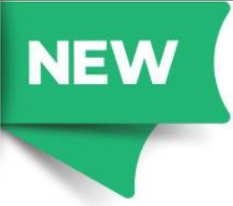
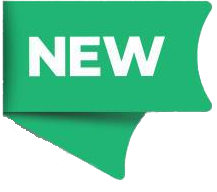
new art de pesca home y products

diff --git a/src/components/carousel/NewsCarousel.js b/src/components/carousel/NewsCarousel.js
@@ -1,20 +1,22 @@
-import React from 'react';
+import React, { useState } from 'react';
+import { motion, isValidMotionProp } from 'framer-motion';
 
 import Carousel from 'react-multi-carousel';
 import 'react-multi-carousel/lib/styles.css';
 import './style.css';
 import {
-  Card,
-  CardBody,
-  CardHeader,
   Box,
-  VStack,
-  Text,
-  Image,
-  Divider,
+  shouldForwardProp,
   Heading,
-  Flex,
+  Image,
+  chakra,
 } from '@chakra-ui/react';
+import { NavLink } from 'react-router-dom';
+
+const ChakraBox = chakra(motion.div, {
+  shouldForwardProp: (prop) =>
+    isValidMotionProp(prop) || shouldForwardProp(prop),
+});
 
 const responsive = {
   superLargeDesktop: {
@@ -37,72 +39,75 @@ const responsive = {
 };
 
 const NewsCarousel = ({ items }) => {
-  console.log('items', items);
+  const [isStopped, setisStopped] = useState(false);
 
   return (
     <Box
       zIndex={'500'}
       position="relative"
-      width={'20%'}
+      width={'min(20%, 165px)'}
       right="0"
-      bottom={'0px'}>
-      <Flex
+      bottom={'0px'}
+      transition="all 0.5s ease"
+      /* background={'white'} */
+      opacity={() => (isStopped ? 1 : 0)}>
+      <Heading color={'#424a9d'} as="h5" size={'1.8vw'}>
+        Articulos de Pesca
+      </Heading>
+      <ChakraBox
+        animate={{ scale: [1, 1.15, 1] }}
+        transition={{
+          duration: 1,
+          ease: 'easeInOut',
+          repeat: Infinity,
+          repeatType: 'loop',
+        }}
+        display={'flex'}
         zIndex={'50'}
         pos="absolute"
         fontWeight={'bold'}
-        top="-10px"
-        width="30%"
-        right={'0'}>
-        <Image src={process.env.PUBLIC_URL + '/assets/new.png   '} />
-      </Flex>
-      <Carousel
-        arrows={false}
-        infinite
-        draggable={true}
-        autoPlay={true}
-        transitionDuration={500}
-        responsive={responsive}
-        containerClass="news-carousel-container"
-        itemClass="carousel-item"
-        pauseOnHover={true}>
-        {items &&
-          items.map((item) => {
-            return (
-              <Box key={item.id} h="100%">
-                <Card
-                  h={'100%'}
-                  size={{ base: 'md', sm: 'sm' }}
-                  align={'center'}
-                  justify="center">
-                  <CardHeader /* h={'33%'} */ textAlign="center">
-                    <VStack alignContent={'center'}>
-                      <Heading size={'md'}>Articulos de Pesca</Heading>
-                      <Image
-                        src={
-                          process.env.PUBLIC_URL + '/assets/cards/' + item.img
-                        }
-                        h={{ base: '9rem', sm: '4rem' }}
-                      />
-                      <Text fontSize={{ base: 'lg', sm: 'sm' }}>
-                        {item.familia}
-                      </Text>
-                    </VStack>
-                  </CardHeader>
-                  <CardBody display={'flex'} alignItems="flex-end">
-                    <VStack spacing={{ base: 6, sm: 3 }}>
-                      <Box>
-                        <Text fontSize={{ base: 'lg', sm: 'sm' }}>
-                          {item['MEDIDA']}
-                        </Text>
-                      </Box>
-                    </VStack>
-                  </CardBody>
-                  <Divider color={'gray.300'} />
-                </Card>
-              </Box>
-            );
-          })}
-      </Carousel>
+        top="25px"
+        width="40px"
+        height={'40px'}
+        left={'0'}>
+        <Image
+          src={process.env.PUBLIC_URL + '/assets/new.png'}
+          width="100%"
+          height={'100%'}
+        />
+      </ChakraBox>
+
+      <NavLink to={'products/art-de-pesca'}>
+        <Carousel
+          arrows={false}
+          infinite
+          autoPlaySpeed={8000}
+          autoPlay={true}
+          responsive={responsive}
+          containerClass="news-carousel-container"
+          itemClass="carousel-item"
+          pauseOnHover={true}
+          customTransition="all 100ms 1000ms"
+          transitionDuration="100"
+          afterChange={() => setTimeout(() => setisStopped(true), 1500)}
+          beforeChange={() => setisStopped(false)}>
+          {items &&
+            items.map((item) => {
+              return (
+                <Box key={item.id} h="100%">
+                  <Image
+                    borderRadius={'60px'}
+                    src={
+                      process.env.PUBLIC_URL +
+                      '/assets/cards/' +
+                      item['unique-img']
+                    }
+                  />
+                </Box>
+              );
+            })}
+        </Carousel>
+      </NavLink>
     </Box>
   );
 };

diff --git a/src/pages/Home.js b/src/pages/Home.js
@@ -1,23 +1,16 @@
 import React, { useState, useEffect } from 'react';
-import {
-  Box,
-  VStack,
-  Heading,
-  Spinner,
-  /*  Card,
-  CardHeader,
-  CardBody,
-  CardFooter, */
-} from '@chakra-ui/react';
+import { Box, VStack, Heading, Spinner } from '@chakra-ui/react';
 import CustomCarousel from '../components/carousel/Carousel';
-/* import NewsCarousel from '../components/carousel/NewsCarousel'; */
+import NewsCarousel from '../components/carousel/NewsCarousel';
 import { sendItemsToCarrousel } from '../utils/data_utils/dataUtils';
 import itemsToCarrousel from '../data/itemsToCarrousel.json';
+import useGetProducts from '../hooks/useGetProducts';
 
 /* import homeUrl from '../assets/plumbing-home.jpg'; */
 
 const Home = () => {
   const [itemsToCarousel, setitemsToCarousel] = useState([]);
+  const { products } = useGetProducts();
 
   useEffect(() => {
     sendItemsToCarrousel(itemsToCarrousel).then((res) => {
@@ -51,11 +44,14 @@ const Home = () => {
           />
         )}
 
-        {/* {itemsToCarousel && (
+        {products && (
           <>
-            <NewsCarousel items={itemsToCarousel} focusOnSelect={true} />
+            <NewsCarousel
+              items={products && products['ART DE PESCA']['MULTIFILAMENTOS']}
+              focusOnSelect={true}
+            />
           </>
-        )} */}
+        )}
       </VStack>
     </Box>
   );

diff --git a/src/components/sidebar_with_header/Sidebar_Header.js b/src/components/sidebar_with_header/Sidebar_Header.js
@@ -32,10 +32,13 @@ import {
   ModalFooter,
 } from '@chakra-ui/react';
 import { FiMenu, FiChevronDown } from 'react-icons/fi';
-import { TfiLayoutGrid3Alt, TfiLayoutGrid2 } from 'react-icons/tfi';
+
 import { BsCart4 } from 'react-icons/bs';
 import { RiAccountPinCircleFill } from 'react-icons/ri';
 import { ImUserTie } from 'react-icons/im';
+
+import { MdFiberNew, MdConstruction, MdOutlinePlumbing } from 'react-icons/md';
+
 import Logo from '../ui/Logo.jsx';
 import Main from '../../pages/Main';
 import { signOut } from '../../firebase/auth';
@@ -232,18 +235,18 @@ const SidebarContent = ({ onClose, ...rest }) => {
   const [menuItems, setmenuItems] = useState(null);
 
   const icons = [
-    TfiLayoutGrid2,
-    TfiLayoutGrid3Alt,
-    TfiLayoutGrid2,
-    TfiLayoutGrid3Alt,
-    TfiLayoutGrid2,
-    TfiLayoutGrid3Alt,
-    TfiLayoutGrid2,
-    TfiLayoutGrid3Alt,
-    TfiLayoutGrid2,
-    TfiLayoutGrid3Alt,
-    TfiLayoutGrid2,
-    TfiLayoutGrid3Alt,
+    MdOutlinePlumbing,
+    MdConstruction,
+    MdOutlinePlumbing,
+    MdConstruction,
+    MdOutlinePlumbing,
+    MdConstruction,
+    MdOutlinePlumbing,
+    MdConstruction,
+    MdOutlinePlumbing,
+    MdConstruction,
+    MdFiberNew,
+    MdFiberNew,
   ];
   useEffect(() => {
     getMenuNamesData().then((data) => {

diff --git a/src/firebase/firestore.js b/src/firebase/firestore.js
@@ -70,8 +70,8 @@ export const getProductsArrayToMenu = async () => {
 
   products.sort(function (a, b) {
     if (
-      (a != 'FERRETERIA' || a != 'ADHESIVOS') &&
-      (b == 'FERRETERIA' || b == 'ADHESIVOS')
+      (a != 'FERRETERIA' || a != 'ADHESIVOS' || a != 'ART DE PESCA') &&
+      (b == 'FERRETERIA' || b == 'ADHESIVOS' || b == 'ART DE PESCA')
     ) {
       return -1;
     } else {
